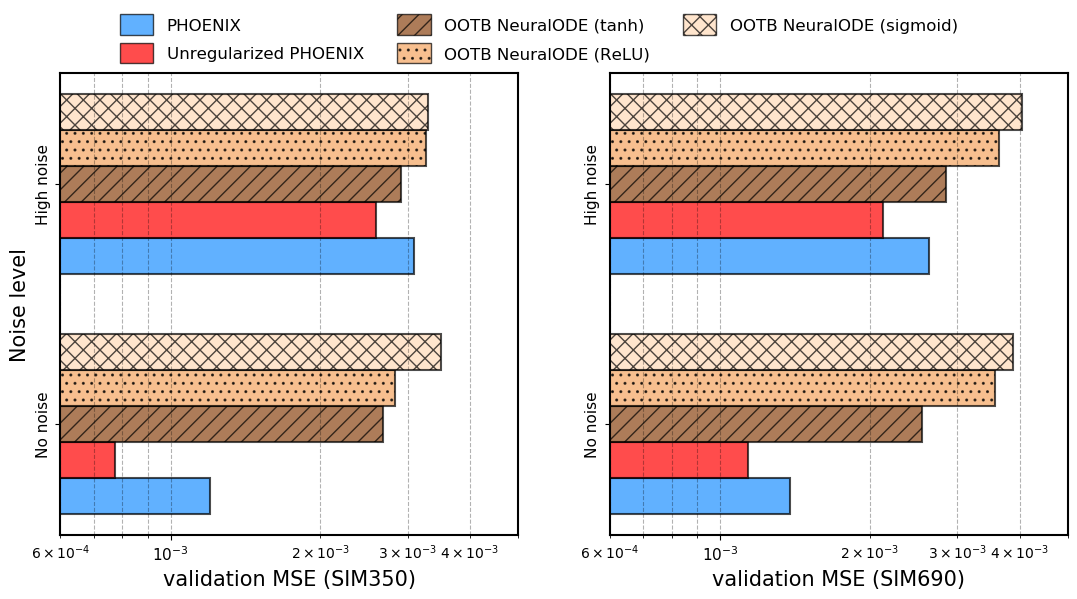
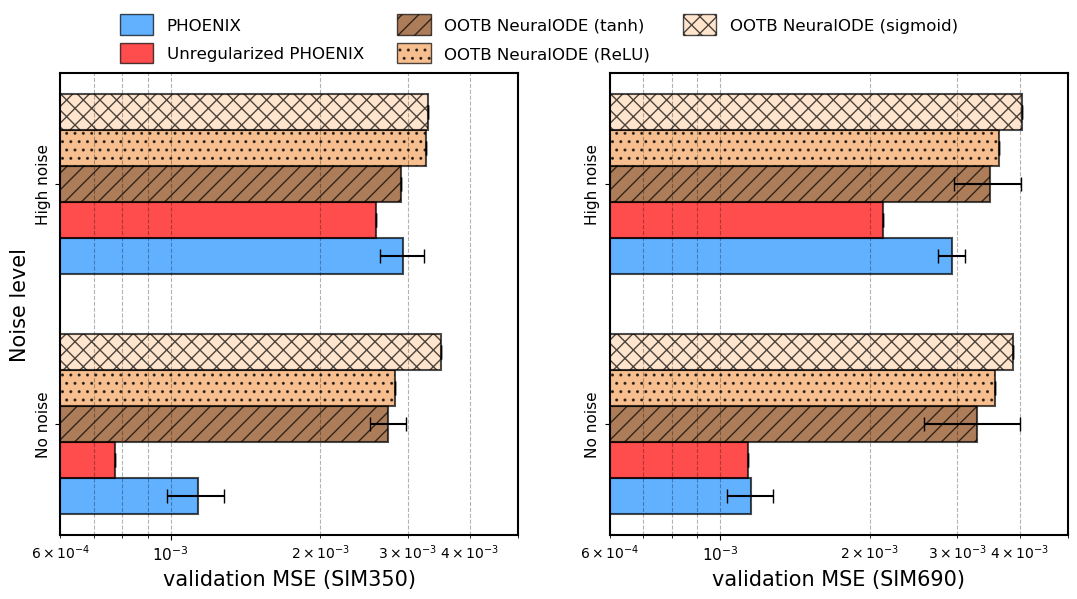
changed ootb plot: error bars

diff --git a/ode_net/code/fig_ootb_mse.py b/ode_net/code/fig_ootb_mse.py
@@ -21,8 +21,7 @@ if __name__ == "__main__":
     datasets = ["sim350", "sim690"]
     noises = [0, 0.1]
     perf_info = {}
-    metrics = ['true_val_MSE']
-    metric_labels = {'true_val_MSE':'MSE'}
+    metrics = ['true_val_MSE_1', 'true_val_MSE_2', 'true_val_MSE_3', 'true_val_MSE_4','true_val_MSE_5']
     model_colors = {"phoenix":"dodgerblue", "phoenix_noprior" :"red", 
                     "ootb_tanh" : "saddlebrown", "ootb_relu" : "sandybrown", "ootb_sigmoid" : "peachpuff"} 
     model_labels = {"phoenix":"PHOENIX", 
@@ -85,8 +84,12 @@ if __name__ == "__main__":
             ax.tick_params(axis='y', labelsize= tick_lab_size)
             
             this_delta = deltas[models.index(this_model)] 
-            this_model_mses =  [perf_info[this_data][this_model][this_noise]['true_val_MSE'] for this_noise in noises]
-            ax.barh(ind + height*this_delta, this_model_mses, height = height,
+            this_model_mses =  [np.mean([perf_info[this_data][this_model][this_noise][true_val_col] 
+                                            for true_val_col in metrics]) for this_noise in noises]
+            this_model_stdev =  [np.std([perf_info[this_data][this_model][this_noise][true_val_col] 
+                                            for true_val_col in metrics]) for this_noise in noises]                                
+            ax.barh(ind + height*this_delta, this_model_mses, height = height, 
+                    xerr = this_model_stdev, capsize = 5,
                     color = model_colors[this_model], alpha = 0.7,  edgecolor = "black", 
                     linewidth = 1.5, align = 'center', hatch = model_hatch[this_model])
             ax.set_xscale("log")
